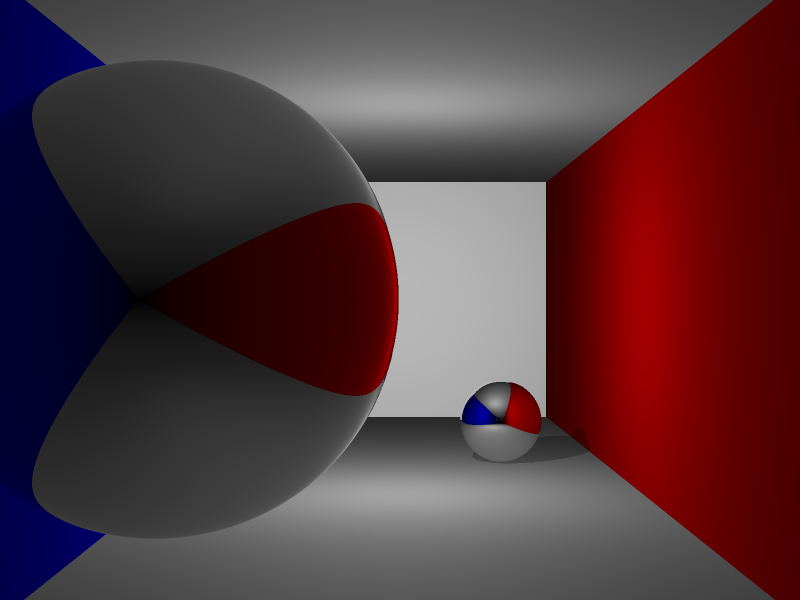
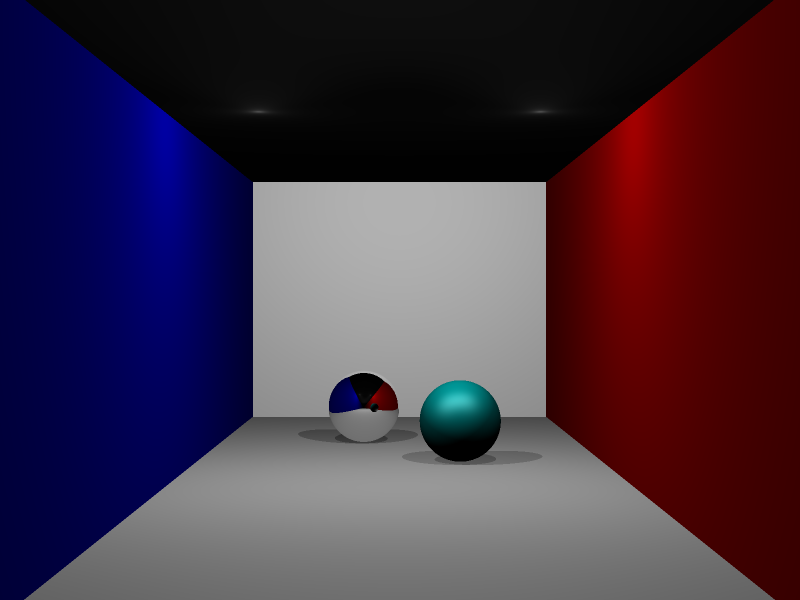
Aliasing, ein paar Bugs behoben

diff --git a/VCG_Raytracer/src/raytracer/Raytracer.java b/VCG_Raytracer/src/raytracer/Raytracer.java
@@ -42,7 +42,7 @@ public class Raytracer {
 
     //Hintergrundfarbe
     private RgbColor mBackgroundColor = new RgbColor(0, 0, 0);
-    public final int maxRecursions = 3;
+    public final int maxRecursions = 10;
     public int currentRecursions = 0;
 
     float minIntersec = 0;
@@ -97,9 +97,8 @@ public class Raytracer {
 
                       }else{
                           shadeArr[i] = shapeArr[i].material.shade(shapeArr[i].getNormal(intersec.getIntersec()), aliasRay[i].startPoint, lightList, intersec.getIntersec());
-
                           for(int shadeIndex = 0; shadeIndex < shadeCount; shadeIndex++){
-                              shadeArr[shadeIndex].sub(0.1f, 0.1f, 0.1f);
+                            shadeArr[i].sub(0.1f, 0.1f, 0.1f);
                           }
                       }
                   }
@@ -128,7 +127,7 @@ public class Raytracer {
                         RgbColor shade = shape.material.shade(shape.getNormal(intersec.getIntersec()), primaryRay.startPoint, lightList, intersec.getIntersec());
 
                         for(int i = 0; i < shadeCount; i++){
-                            shade.sub(0.1f, 0.1f, 0.1f);
+                            shade.sub(0.3f, 0.3f, 0.3f);
                         }
 
                         mRenderWindow.setPixel(mBufferedImage, shade, new Vec2(w, h));
@@ -162,18 +161,20 @@ public class Raytracer {
         Material phongLeft = new Material(new RgbColor(0.1f, 0.1f, 0.1f), new RgbColor(0f, 0f, 0.8f), new RgbColor(0f, 0f, 0f), 0, 0, 0, this);
         Material phongRight = new Material(new RgbColor(0.1f, 0.1f, 0.1f), new RgbColor(0.8f, 0f, 0f), new RgbColor(0f, 0f, 0f), 0, 0, 0, this);
         Material phongSphere = new Material(new RgbColor(0.1f, 0.1f, 0.1f), new RgbColor(0f, 0f, 0.5f), new RgbColor(0.5f, 0.5f, 0.5f), 5, 1, 1f, this);
+        Material phongSphere2 = new Material(new RgbColor(0.1f, 0.1f, 0.1f), new RgbColor(0.0f, 0.8f, 0.8f), new RgbColor(0.5f, 0.5f, 0.5f), 6, 0, 0, this);
         //Materialien zur Liste hinzufügen
         materialList.add(0,phong);
         materialList.add(1,phongSphere);
         materialList.add(2,phongLeft);
         materialList.add(3,phongRight);
+        materialList.add(4,phongSphere2);
 
     }
 
     public void createShapes(){
         //Kugel erstellen (Radius, Position, Material)
-        Sphere sphere1 = new Sphere(2f, new Vec3 (2, 0, -20f), materialList.get(1));
-        Sphere sphere2 = new Sphere(1f, new Vec3(-2.5f, -3, -1), materialList.get(1));
+        Sphere sphere1 = new Sphere(1f, new Vec3 (1, -3, 3f), materialList.get(1));
+        Sphere sphere2 = new Sphere(1f, new Vec3(-1.5f, -3, -1), materialList.get(4));
         //Ebene erstellen (Postiton, Normale, Material)
         Plane topPlane = new Plane(new Vec3(0f, 4f, 0f), new Vec3(0, -1, 0), materialList.get(0));
         Plane bottomPlane = new Plane(new Vec3(0f, -4f, 0f), new Vec3(0, 1, 0), materialList.get(0));
@@ -192,12 +193,12 @@ public class Raytracer {
 
     public void createLight(){
         //Licht erstellen (Lichtart, Position, Farbe, Ambient-Farbe)
-        Light light0 = new Light(0, new Vec3(0f, 0f, -6), new RgbColor(0.8f, 0.8f, 0.8f), new RgbColor(0.0f, 0.0f, 0.0f));
-       // Light light1 = new Light(0, new Vec3(-3f, 3.9f, -5f), new RgbColor(0.8f, 0.8f, 0.8f), new RgbColor(0.0f, 0.0f, 0.0f));
+        Light light0 = new Light(0, new Vec3(3f, 3.9f, -5), new RgbColor(0.4f, 0.4f, 0.4f), new RgbColor(0.0f, 0.0f, 0.0f));
+        Light light1 = new Light(0, new Vec3(-3f, 3.9f, -5f), new RgbColor(0.4f, 0.4f, 0.4f), new RgbColor(0.0f, 0.0f, 0.0f));
         //Light light2 = new Light(0, new Vec3(10, -4, -3), new RgbColor(1f, 0.1f, 0.8f), new RgbColor(0.0f, 0.0f, 0.0f));
         //Ligts zur Liste hinzugen
         lightList.add(0, light0);
-      //  lightList.add(1, light1);
+        lightList.add(1, light1);
         //lightList.add(2, light2);
     }
 
